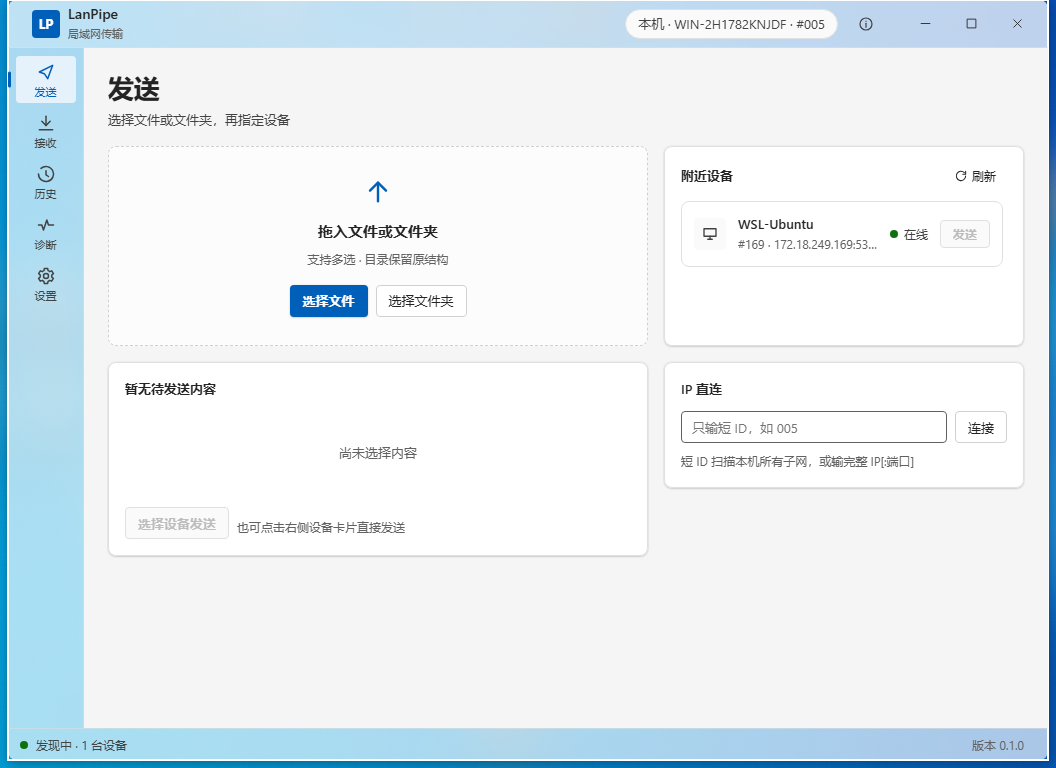
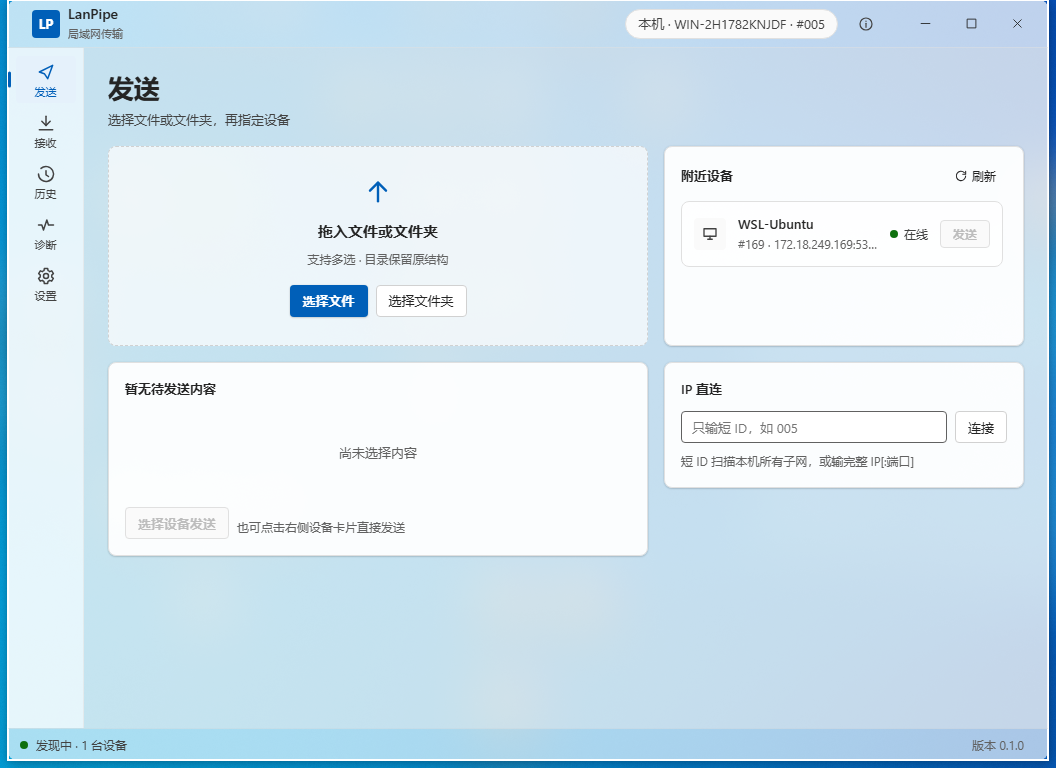
fix(ui): 材质透明度按主题区分（浅色导航 90%/页面 80%；深色导航 66%/页面 80%）

diff --git a/src/styles/materials.css b/src/styles/materials.css
@@ -1,27 +1,57 @@
 /* 窗口材质（Mica / Acrylic）与半透明层 --------------------------------
  * 参考 Windows 11 应用分层（Settings / Explorer 的实际做法）：
  * - 窗口底层：Mica（壁纸取色 + 模糊）/ Acrylic（实时模糊）
- * - 标题栏 / 左导航 / 状态栏：半透明，让材质明显透出（这是"Windows 味"的来源）
+ * - 标题栏 / 左导航 / 状态栏：半透明，让材质明显透出（"Windows 味"的来源）
  * - 内容区：接近不透明的页面底色，保证任意壁纸下文字都清晰
  * - 卡片 / 列表：高不透明度填充（不加 backdrop-filter，避免创建层叠上下文）
  * - 浮层（下拉 / 气泡 / Toast）：完全不透明，避免透出下层文字
  *
- * 教训（2026-11-21，Win11 用户实测）：
- * - 内容层透明度不能给太低（曾用 28%），否则深色壁纸下的 Mica 会透成一张灰纸，
- *   整体发灰、文字对比度差；Mica 应该主要出现在标题栏/导航/状态栏。
+ * 透明度按主题区分（2026-11-21 用户确认）：
+ * - 浅色：tab/导航 90%，页面 80%
+ * - 深色：导航 66%、标题栏 74%，页面 80%
  *
- * 重要：卡片不要加 backdrop-filter —— 它会创建层叠上下文，
- * 让卡片内部的下拉浮层被后面的兄弟卡片盖住。
+ * 教训：
+ * - 内容层给太低（曾用 28%）时，深色壁纸下的 Mica 会透成灰纸，文字对比度崩掉；
+ * - 卡片不要加 backdrop-filter —— 它会创建层叠上下文，
+ *   让卡片内部的下拉浮层被后面的兄弟卡片盖住。
  * 仅在 data-backdrop="mica|acrylic" 时启用；不支持材质的环境保持纯色。
  */
+
+:root[data-backdrop="mica"],
+:root[data-backdrop="acrylic"] {
+  /* 默认（浅色）：页面 80%，导航 90%，标题栏 74%，状态栏 66% */
+  --mat-content: 80%;
+  --mat-nav: 90%;
+  --mat-titlebar: 74%;
+  --mat-status: 66%;
+}
+
+/* 深色主题：页面 80%，导航/标题栏保持更明显的材质 */
+:root[data-backdrop="mica"][data-theme="dark"],
+:root[data-backdrop="acrylic"][data-theme="dark"] {
+  --mat-content: 80%;
+  --mat-nav: 66%;
+  --mat-titlebar: 74%;
+  --mat-status: 66%;
+}
+
+/* 跟随系统且系统是深色时，同样走深色值 */
+@media (prefers-color-scheme: dark) {
+  :root[data-backdrop="mica"]:not([data-theme="light"]):not([data-theme="dark"]),
+  :root[data-backdrop="acrylic"]:not([data-theme="light"]):not([data-theme="dark"]) {
+    --mat-content: 80%;
+    --mat-nav: 66%;
+    --mat-titlebar: 74%;
+    --mat-status: 66%;
+  }
+}
 
 :root[data-backdrop="mica"] body,
 :root[data-backdrop="acrylic"] body {
   background: transparent;
 }
 
-/* 应用根节点保持透明，让材质在标题栏/导航/状态栏直接透出；
-   内容区自己铺接近不透明的页面底色。 */
+/* 应用根节点透明，让材质在标题栏/导航/状态栏直接透出；内容区自己铺底色 */
 :root[data-backdrop="mica"] .app-root,
 :root[data-backdrop="acrylic"] .app-root {
   background: transparent;
@@ -29,7 +59,7 @@
 
 :root[data-backdrop="mica"] .titlebar,
 :root[data-backdrop="acrylic"] .titlebar {
-  background: color-mix(in srgb, var(--surface) 74%, transparent);
+  background: color-mix(in srgb, var(--surface) var(--mat-titlebar), transparent);
   backdrop-filter: saturate(1.6) blur(30px);
   border-bottom-color: color-mix(in srgb, var(--border) 55%, transparent);
   box-shadow: none;
@@ -37,21 +67,19 @@
 
 :root[data-backdrop="mica"] .nav,
 :root[data-backdrop="acrylic"] .nav {
-  background: color-mix(in srgb, var(--surface) 66%, transparent);
+  background: color-mix(in srgb, var(--surface) var(--mat-nav), transparent);
   border-right-color: color-mix(in srgb, var(--border) 50%, transparent);
   backdrop-filter: saturate(1.4) blur(30px);
 }
 
 :root[data-backdrop="mica"] .content,
 :root[data-backdrop="acrylic"] .content {
-  /* 页面内容层：完全不透明。Windows 11 的设置/资源管理器也是"框透明、内容实色"；
-     内容区一旦半透明，深色壁纸下的 Mica 会透成灰纸，文字对比度崩掉。 */
-  background: var(--bg);
+  background: color-mix(in srgb, var(--bg) var(--mat-content), transparent);
 }
 
 :root[data-backdrop="mica"] .statusbar,
 :root[data-backdrop="acrylic"] .statusbar {
-  background: color-mix(in srgb, var(--surface) 66%, transparent);
+  background: color-mix(in srgb, var(--surface) var(--mat-status), transparent);
   border-top-color: color-mix(in srgb, var(--border) 50%, transparent);
   backdrop-filter: saturate(1.4) blur(30px);
 }
@@ -94,11 +122,14 @@
 @media (max-width: 640px) {
   :root[data-backdrop="mica"] .nav,
   :root[data-backdrop="acrylic"] .nav {
-    background: color-mix(in srgb, var(--surface) 72%, transparent);
+    background: color-mix(in srgb, var(--surface) 90%, transparent);
     backdrop-filter: saturate(1.8) blur(40px);
   }
 
-
+  :root[data-backdrop="mica"] .content,
+  :root[data-backdrop="acrylic"] .content {
+    background: color-mix(in srgb, var(--bg) 88%, transparent);
+  }
 
   :root[data-backdrop="mica"] .dropzone,
   :root[data-backdrop="acrylic"] .dropzone {

diff --git a/AGENT.md b/AGENT.md
@@ -484,9 +484,9 @@ node tools/ui-eval.mjs 9333 "@expr.js"   # 在页面内执行表达式
 | 层 | 材质 | 实现 |
 | --- | --- | --- |
 | 窗口底 | Mica（Windows 11 build ≥ 22000）/ Acrylic（Win10 1809+ build ≥ 17763）/ 纯色 | Tauri `unstable` + `transparent(true)` + `Window::set_effects(EffectsBuilder)`；`LANPIPE_BACKDROP=mica|acrylic|none` 可强制覆盖 |
-| 内容页面 | `var(--bg)` 完全不透明（内容区不做透明；材质只在框上） | `.content` |
+| 内容页面 | 80% `--bg`（浅色/深色一致） | `.content` |
 | 标题栏 | 74% surface + `blur(30px)` | `.titlebar` |
-| 左侧导航 / 状态栏 | 66% surface + `blur(30px)` | `.nav` / `.statusbar` |
+| 左侧导航 | 浅色 90% / 深色 66% surface + `blur(30px)`；状态栏 66% | `.nav` / `.statusbar` |
 | 内容卡片 | 92% surface（悬停 96%，无 `backdrop-filter`） | `.card` |
 | 拖入框 | 70% surface | `.dropzone` |
 | 列表行 / 设备卡 | 80% surface | `.list-row` / `.device` |
